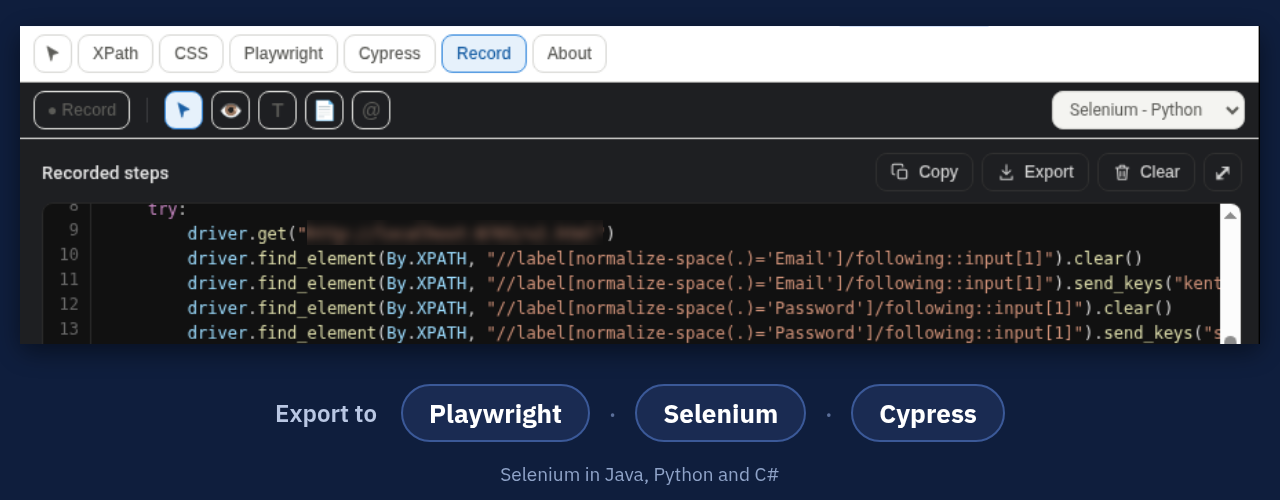
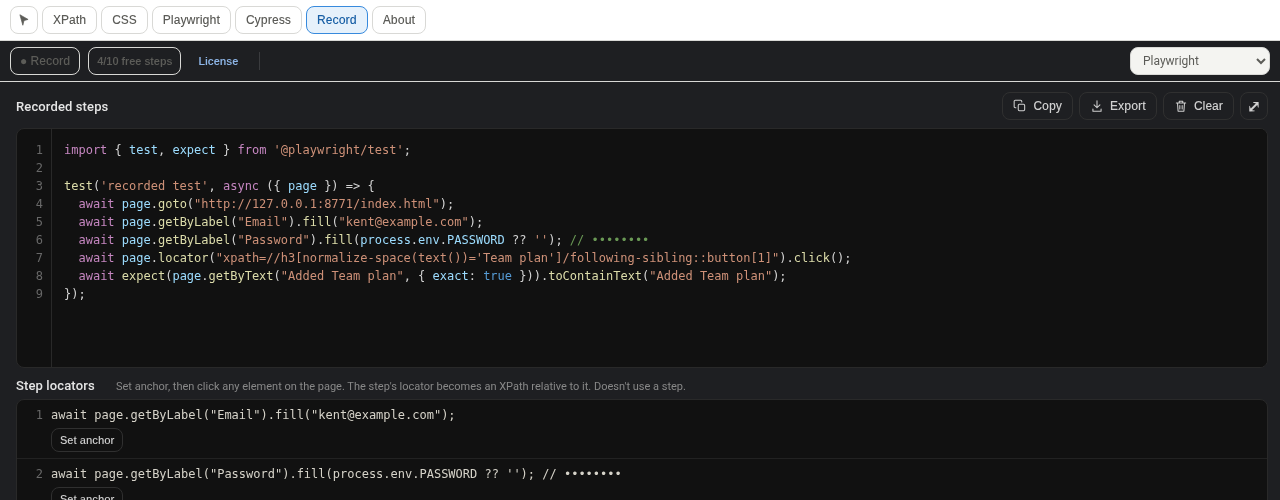
Recapture Recorder screenshot with the Playwright (TypeScript) export

diff --git a/index.html b/index.html
@@ -165,7 +165,7 @@
         <div class="fw"><span>Playwright <em>TypeScript</em></span><span>Selenium <em>Java · Python · C#</em></span><span>Cypress</span></div>
         <p style="margin-top:20px">Try it free for 10 recorded steps, with every Recorder feature and all three export formats included. Pro unlocks unlimited steps.</p>
       </div>
-      <figure class="shot"><img src="assets/ui-recorder.png" loading="lazy" width="1280" height="500" alt="Recorder panel showing a recorded flow exported as Selenium Python with axes-based XPath locators"><figcaption>Real capture: a recorded flow exported to Selenium (Python).</figcaption></figure>
+      <figure class="shot"><img src="assets/ui-recorder.png" loading="lazy" width="1280" height="500" alt="Recorder panel showing a recorded flow exported as Playwright TypeScript"><figcaption>Real capture: a recorded flow exported to Playwright (TypeScript).</figcaption></figure>
     </div>
     <div class="codeblock" aria-label="Excerpt of a real Playwright TypeScript export"><span class="c">// Excerpt from a real Playwright (TypeScript) export</span>
 import { test, expect } from '@playwright/test';
